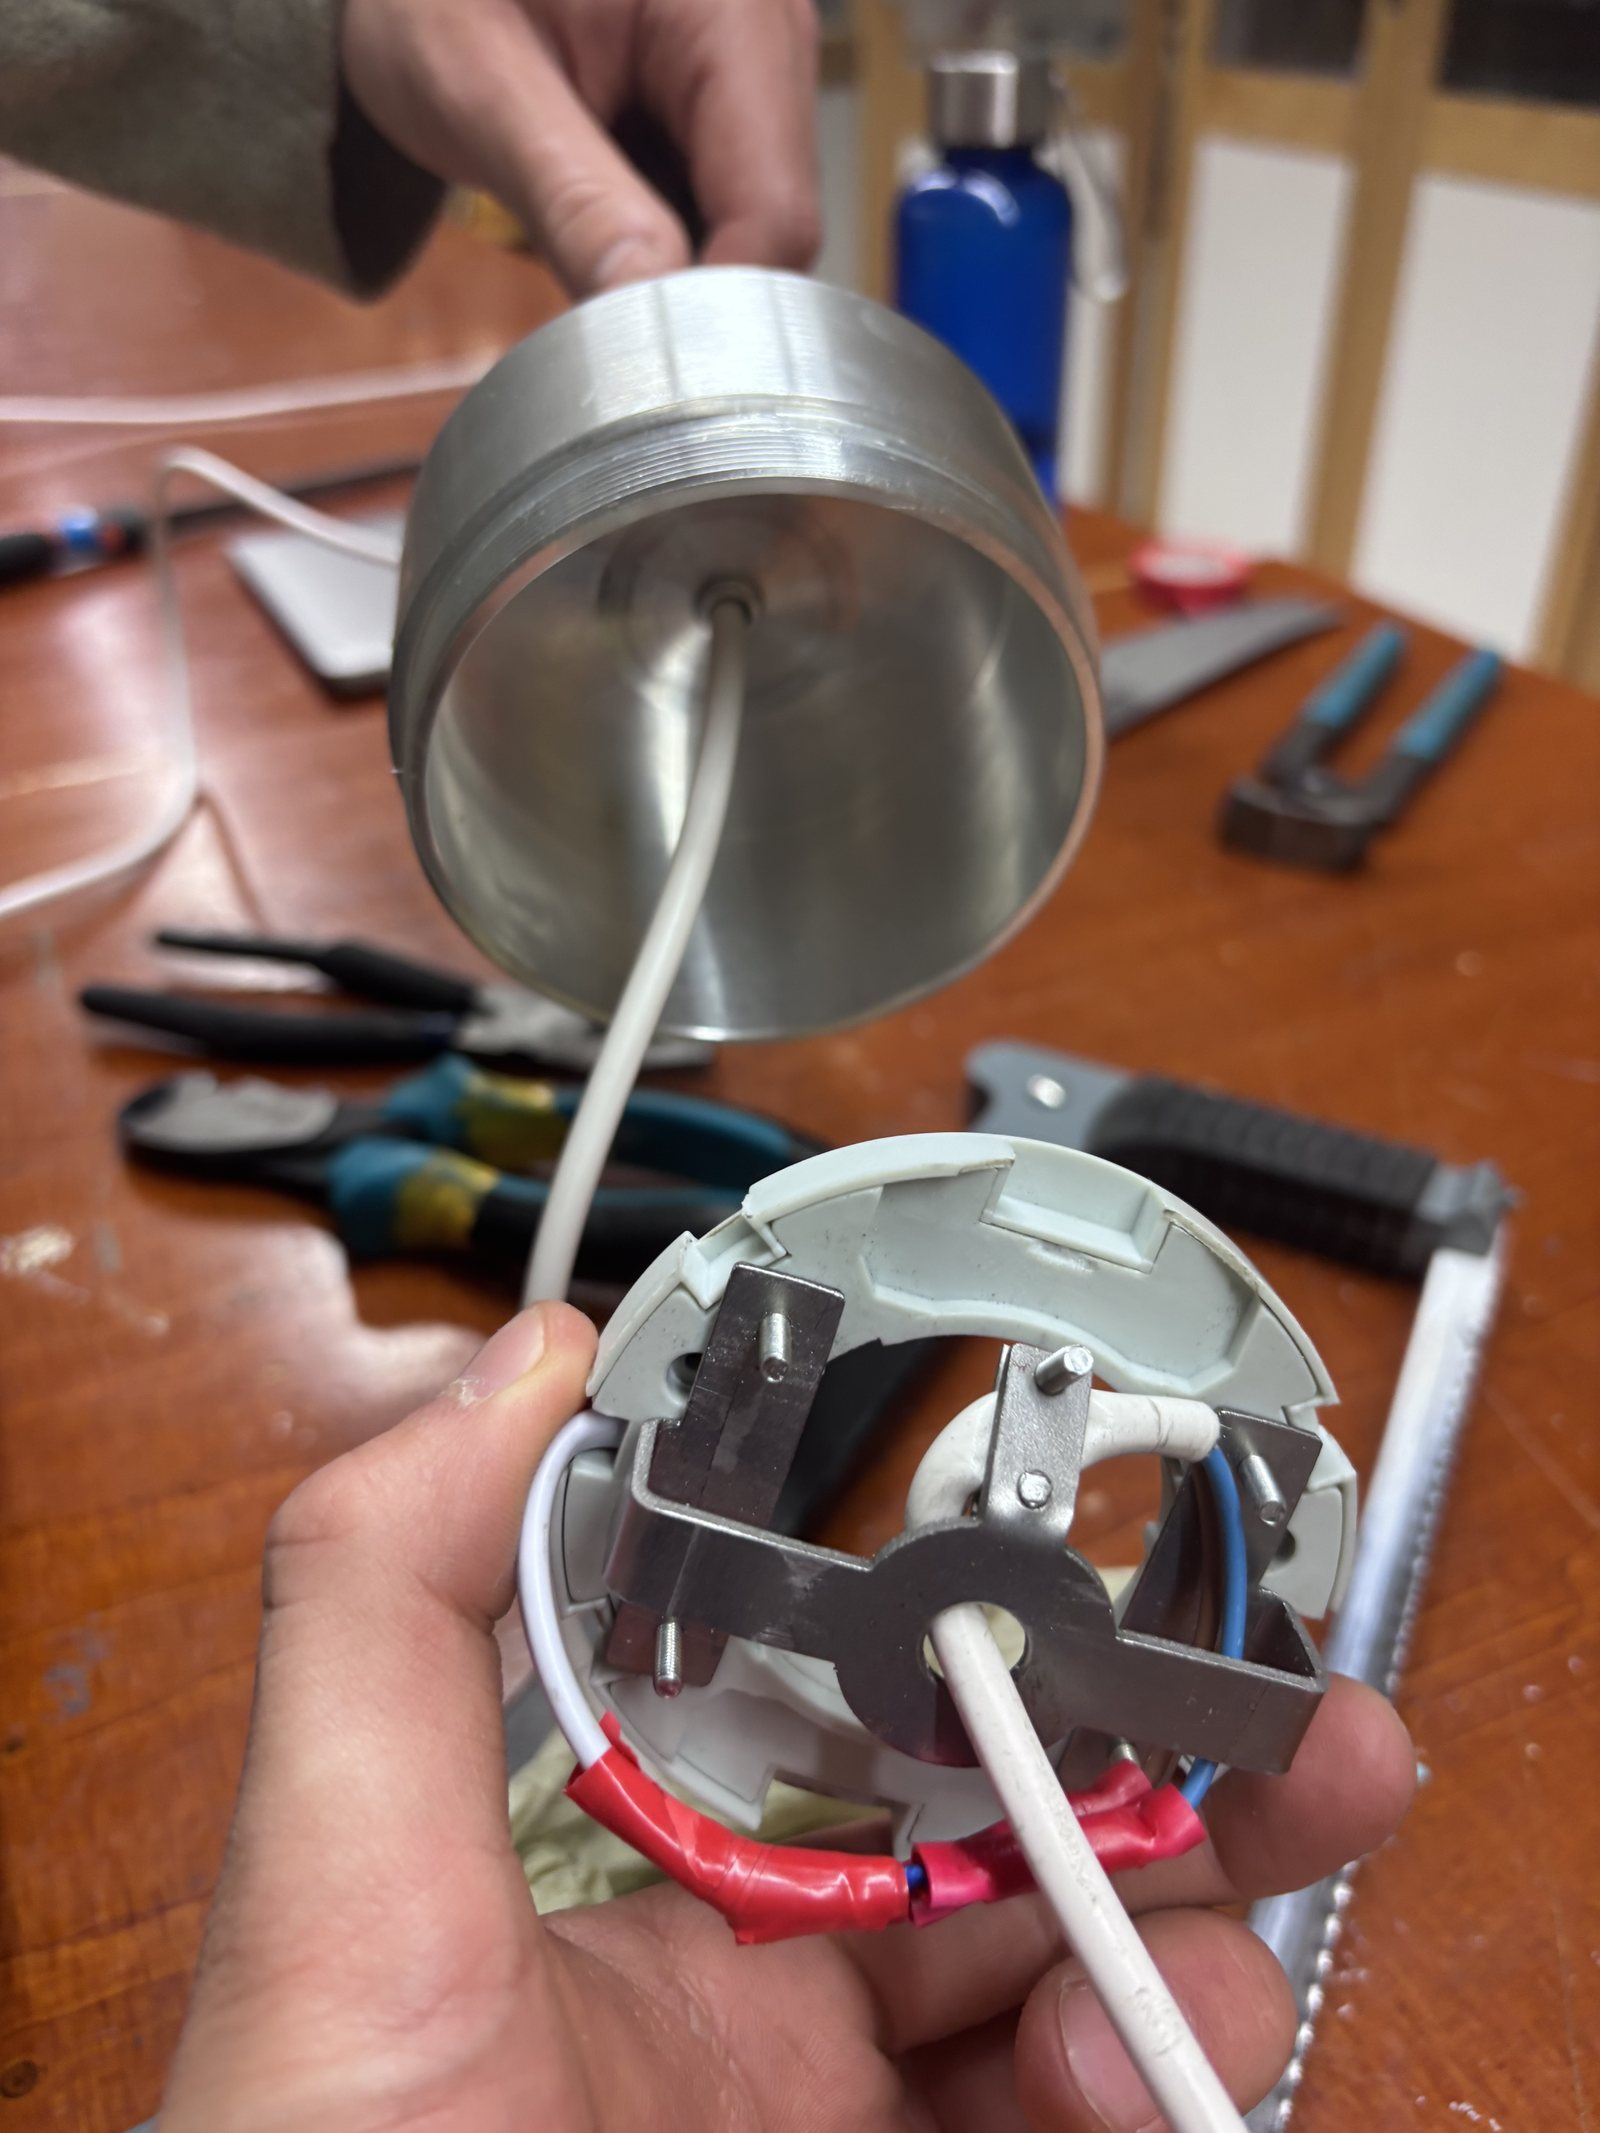
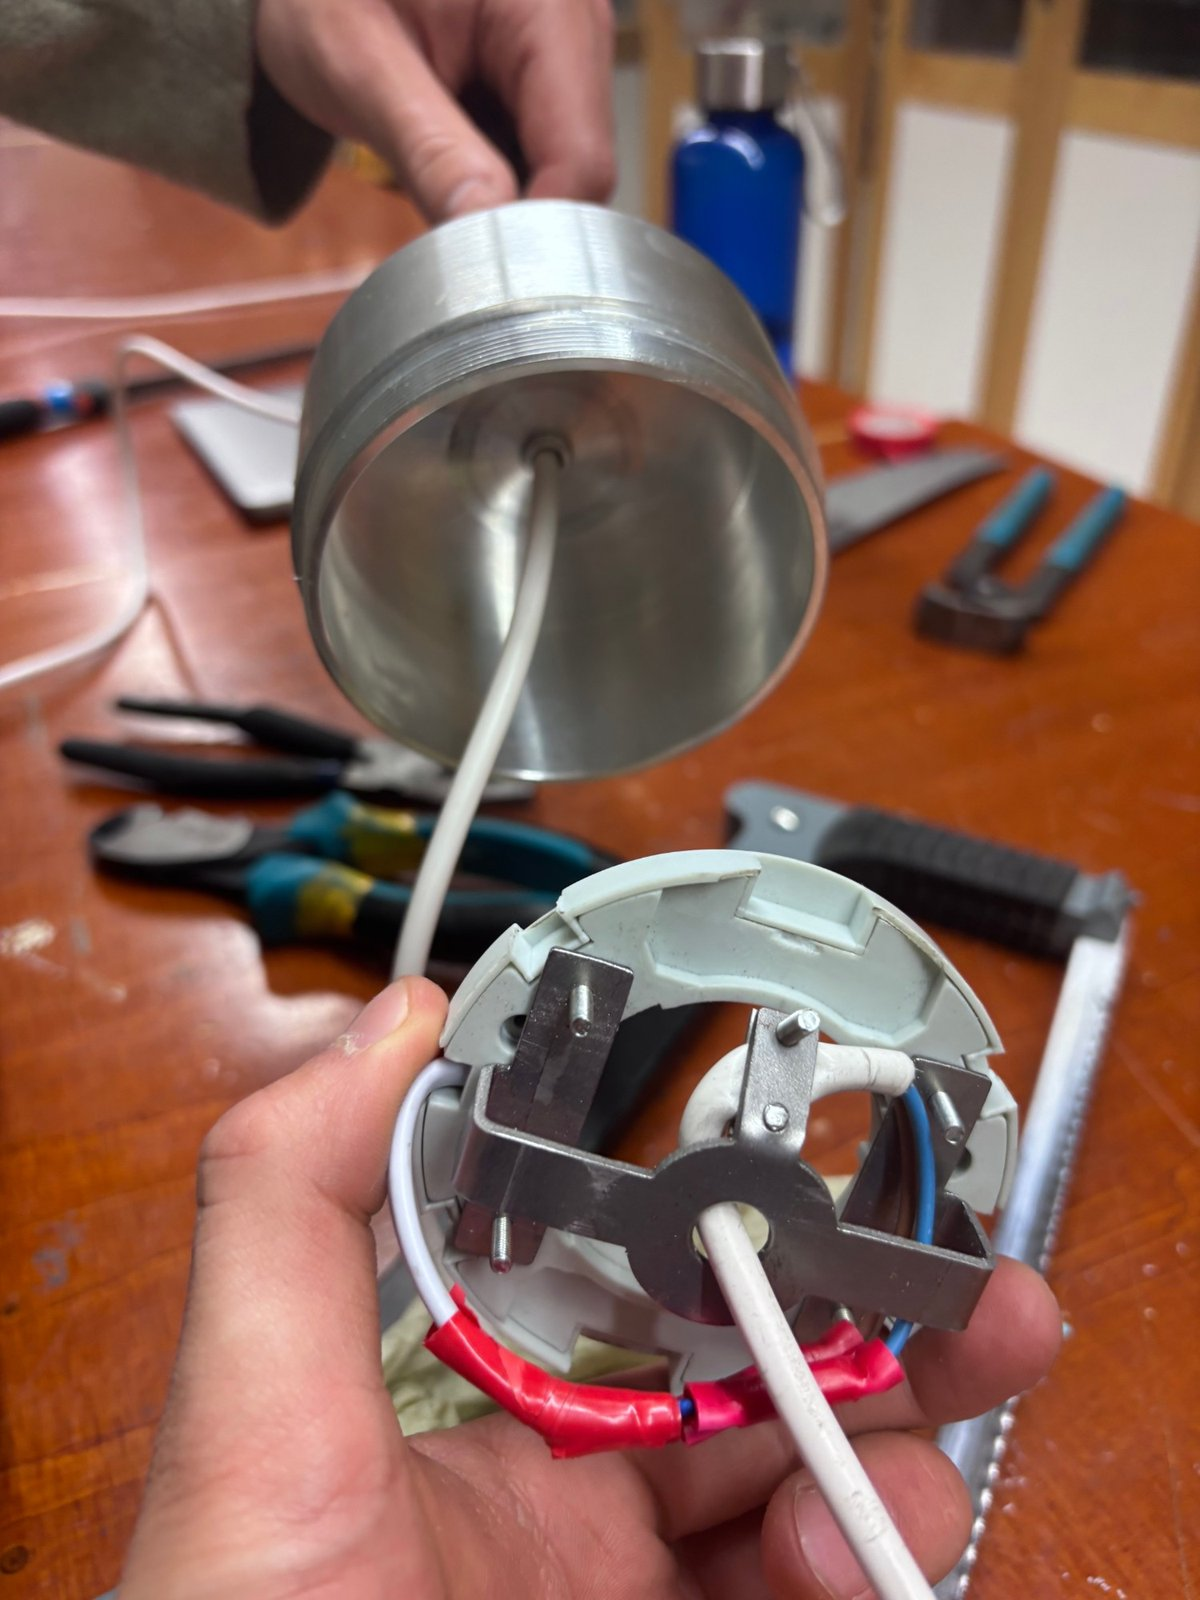
Celina: new production and light images
Add exploded view, GX53 holder, bracket close-up and lit lamp photos.
Replace turned cap, gravity pipe and wiring photos with sharper versions
and remove a team member's name from the drawings shown in them.

Claude-Session: https://claude.ai/code/session_01Hcn1o19qZG1QMcFy8LNuMR

diff --git a/projects/celina.html b/projects/celina.html
@@ -63,9 +63,11 @@
       <p>Celina uses glass Reijmyre already blows, so no new moulds are needed. Everything else is standard or simple to make: a GX53 LED puck, three CNC-turned aluminium parts modelled in Fusion 360, and one bent sheet-metal bracket. The construction tolerates the natural variation of hand-blown glass.</p>
       <p>Assembly is just as simple. The glass is clamped mechanically between the top cap and the lower lock ring, and the inner vase hangs from three 1 mm wires tensioned in the lock ring, which adds to the floating effect. A 300 mm gravity pipe keeps the lamp hanging straight, the power cable runs hidden through the pendant tube, and the bracket with integrated strain relief lets the ceiling canopy stay small.</p><div class="ph txt"><b>Placeholder · CAD / section view</b>Add a Fusion 360 section view showing the parts.</div></div>
     </div>
-    <div class="media c2 reveal"><figure class="r34 fit"><img src="../assets/img/cel-studio.jpg" alt="Studio render of Celina showing the inner vase hanging on thin wires" loading="lazy"></figure><figure class="r34"><img src="../assets/img/cel-lathe.jpg" alt="CNC lathe turning the aluminium top cap" loading="lazy"></figure></div>
-    <div class="media c2 reveal"><figure class="r34"><img src="../assets/img/cel-turned.jpg" alt="Turned aluminium top cap on its technical drawing" loading="lazy"></figure><figure class="r34"><img src="../assets/img/cel-pipe.jpg" alt="The gravity pipe with its turned aluminium parts" loading="lazy"></figure></div>
-    <div class="media c2 reveal"><figure class="r34"><img src="../assets/img/cel-wiring.jpg" alt="Fitting the bracket and GX53 holder into the top cap" loading="lazy"></figure><figure class="r34"><img src="../assets/img/cel-assembly.jpg" alt="Assembling the glass into the finished lamp" loading="lazy"></figure></div><p class="cap">From turned parts to an assembled lamp.</p>
+    <div class="media  reveal"><figure class="fit"><img src="../assets/img/cel-exploded.jpg" alt="Exploded view of Celina: wires, coloured inner glass, lock ring, outer glass, diffuser, GX53 puck, bracket, top cap and gravity pipe" loading="lazy"></figure></div><p class="cap">All components, from the 1 mm wires and inner glass to the top cap and gravity pipe.</p>
+    <div class="media c2 reveal"><figure class="r34"><img src="../assets/img/cel-lathe.jpg" alt="CNC lathe turning the aluminium top cap" loading="lazy"></figure><figure class="r34"><img src="../assets/img/cel-turned.jpg" alt="Turned aluminium top cap on its technical drawing" loading="lazy"></figure></div>
+    <div class="media c2 reveal"><figure class="r34"><img src="../assets/img/cel-pipe.jpg" alt="The gravity pipe mounted in the turned top cap" loading="lazy"></figure><figure class="r34"><img src="../assets/img/cel-wiring.jpg" alt="Fitting the bracket and GX53 holder into the top cap" loading="lazy"></figure></div><p class="cap">CNC-turned aluminium parts, machined from technical drawings.</p>
+    <div class="media c2 reveal"><figure class="r11 fit"><img src="../assets/img/cel-gx53.jpg" alt="Standard GX53 lamp holder" loading="lazy"></figure><figure class="r11"><img src="../assets/img/cel-bracket.jpg" alt="Bent sheet-metal bracket with strain relief mounted on the GX53 holder" loading="lazy"></figure></div><p class="cap">A standard GX53 holder, fixed to the pendant tube by a bent sheet-metal bracket with built-in strain relief.</p>
+    <div class="media c2 reveal"><figure class="r34"><img src="../assets/img/cel-assembly.jpg" alt="Assembling the glass into the finished lamp" loading="lazy"></figure><figure class="r34 fit"><img src="../assets/img/cel-studio.jpg" alt="Studio render of Celina showing the inner vase hanging on thin wires" loading="lazy"></figure></div><p class="cap">Final assembly, and the finished design.</p>
   </section>
   <section class="chapter wrap">
     <div class="chapter-text reveal">
@@ -74,7 +76,8 @@
       <p>The top of the inner vase is cut off so it directs an even beam downwards, and a fabric diffuser in the lock ring spreads the light and prevents glare. Most of the light falls through the inner vase onto the table, while the ribbed outer glass glows softly around it.</p>
       <div class="facts-row"><div>GX53<small>LED puck</small></div><div>2700 K<small>Colour temperature</small></div><div>500 lm<small>Luminous flux</small></div><div>300 mm<small>Gravity pipe</small></div></div></div>
     </div>
-    <div class="media c2 reveal"><figure class="r11 fit"><img src="../assets/img/cel-lightpath.jpg" alt="Diagram of how light leaves Celina" loading="lazy"></figure><figure class="r11 fit"><img src="../assets/img/cel-diffuser.jpg" alt="How the fabric diffuser scatters light" loading="lazy"></figure></div>
+    <div class="media c2 reveal"><figure class="r34"><img src="../assets/img/cel-lit.jpg" alt="Celina lit, with the blue inner glass glowing inside the ribbed outer glass" loading="lazy"></figure><figure class="r34 fit"><img src="../assets/img/cel-lightpath.jpg" alt="Diagram of how light leaves Celina" loading="lazy"></figure></div>
+    <div class="media  reveal"><figure class="fit"><img src="../assets/img/cel-diffuser.jpg" alt="How the fabric diffuser scatters light" loading="lazy"></figure></div>
   </section>
   <section class="chapter wrap">
     <div class="chapter-text reveal">

diff --git a/tools/build_pages.py b/tools/build_pages.py
@@ -173,14 +173,17 @@ h += chapter("Process", "From light lab to floating glass.", """
 h += chapter("Production &amp; assembly", "Optimised for production, easy to assemble.", """
       <p>Celina uses glass Reijmyre already blows, so no new moulds are needed. Everything else is standard or simple to make: a GX53 LED puck, three CNC-turned aluminium parts modelled in Fusion 360, and one bent sheet-metal bracket. The construction tolerates the natural variation of hand-blown glass.</p>
       <p>Assembly is just as simple. The glass is clamped mechanically between the top cap and the lower lock ring, and the inner vase hangs from three 1 mm wires tensioned in the lock ring, which adds to the floating effect. A 300 mm gravity pipe keeps the lamp hanging straight, the power cable runs hidden through the pendant tube, and the bracket with integrated strain relief lets the ceiling canopy stay small.</p>""" + ph("CAD / section view", "Add a Fusion 360 section view showing the parts.", "txt"),
-    media("c2", fig("cel-studio.jpg", "Studio render of Celina showing the inner vase hanging on thin wires", "r34 fit"), fig("cel-lathe.jpg", "CNC lathe turning the aluminium top cap", "r34")) +
-    media("c2", fig("cel-turned.jpg", "Turned aluminium top cap on its technical drawing", "r34"), fig("cel-pipe.jpg", "The gravity pipe with its turned aluminium parts", "r34")) +
-    media("c2", fig("cel-wiring.jpg", "Fitting the bracket and GX53 holder into the top cap", "r34"), fig("cel-assembly.jpg", "Assembling the glass into the finished lamp", "r34"), cap="From turned parts to an assembled lamp."))
+    media("", fig("cel-exploded.jpg", "Exploded view of Celina: wires, coloured inner glass, lock ring, outer glass, diffuser, GX53 puck, bracket, top cap and gravity pipe", "fit"), cap="All components, from the 1 mm wires and inner glass to the top cap and gravity pipe.") +
+    media("c2", fig("cel-lathe.jpg", "CNC lathe turning the aluminium top cap", "r34"), fig("cel-turned.jpg", "Turned aluminium top cap on its technical drawing", "r34")) +
+    media("c2", fig("cel-pipe.jpg", "The gravity pipe mounted in the turned top cap", "r34"), fig("cel-wiring.jpg", "Fitting the bracket and GX53 holder into the top cap", "r34"), cap="CNC-turned aluminium parts, machined from technical drawings.") +
+    media("c2", fig("cel-gx53.jpg", "Standard GX53 lamp holder", "r11 fit"), fig("cel-bracket.jpg", "Bent sheet-metal bracket with strain relief mounted on the GX53 holder", "r11"), cap="A standard GX53 holder, fixed to the pendant tube by a bent sheet-metal bracket with built-in strain relief.") +
+    media("c2", fig("cel-assembly.jpg", "Assembling the glass into the finished lamp", "r34"), fig("cel-studio.jpg", "Studio render of Celina showing the inner vase hanging on thin wires", "r34 fit"), cap="Final assembly, and the finished design."))
 
 h += chapter("Light", "Soft ambience and useful light from one lamp.", """
       <p>The top of the inner vase is cut off so it directs an even beam downwards, and a fabric diffuser in the lock ring spreads the light and prevents glare. Most of the light falls through the inner vase onto the table, while the ribbed outer glass glows softly around it.</p>
       <div class="facts-row"><div>GX53<small>LED puck</small></div><div>2700 K<small>Colour temperature</small></div><div>500 lm<small>Luminous flux</small></div><div>300 mm<small>Gravity pipe</small></div></div>""",
-    media("c2", fig("cel-lightpath.jpg", "Diagram of how light leaves Celina", "r11 fit"), fig("cel-diffuser.jpg", "How the fabric diffuser scatters light", "r11 fit")))
+    media("c2", fig("cel-lit.jpg", "Celina lit, with the blue inner glass glowing inside the ribbed outer glass", "r34"), fig("cel-lightpath.jpg", "Diagram of how light leaves Celina", "r34 fit")) +
+    media("", fig("cel-diffuser.jpg", "How the fabric diffuser scatters light", "fit")))
 
 h += chapter("Vernissage", "Shown at the final vernissage.", """
       <p>The finished prototype was presented at Linköping University in a staged dining scene, together with Reijmyre's glass. Celina gives Reijmyre a way to sell pieces they already make as a premium light.</p>""",
